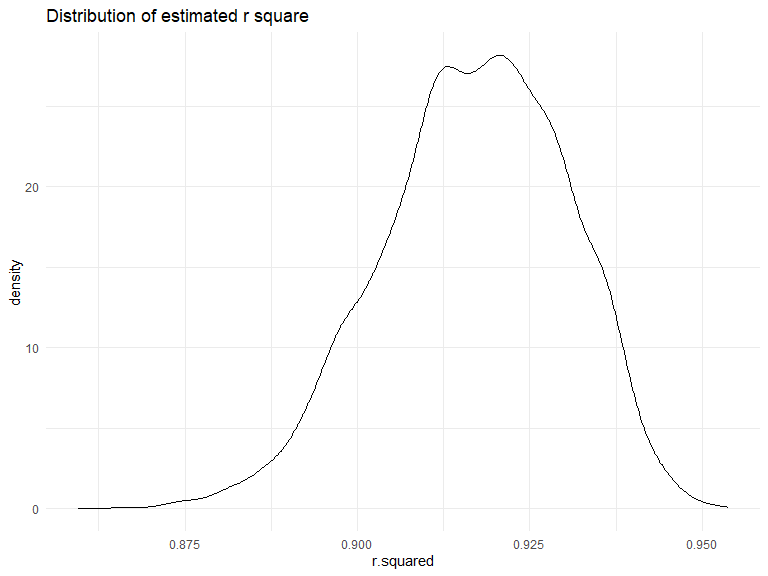
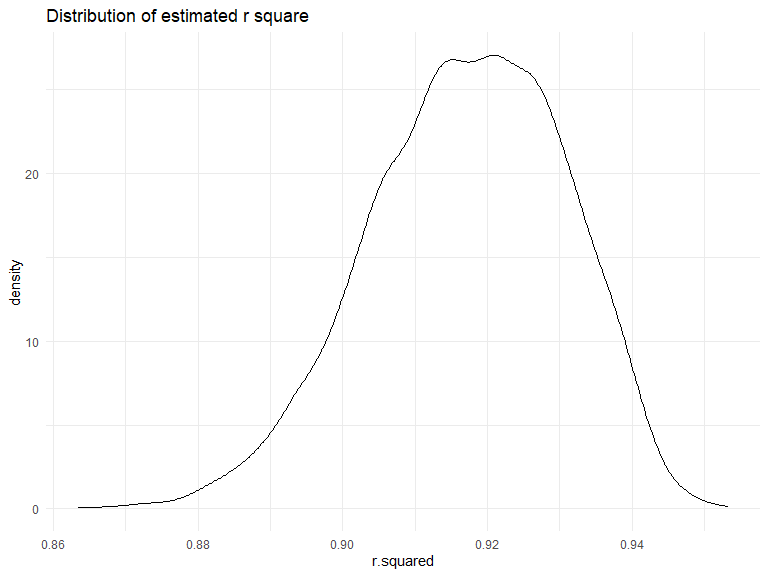
update prob 1

diff --git a/p8105_hw6_sz3213.md b/p8105_hw6_sz3213.md
@@ -79,7 +79,13 @@ results_df |>
   theme(axis.text.x = element_text(angle = 90, hjust = 1))
 ```
 
-![](p8105_hw6_sz3213_files/figure-gfm/unnamed-chunk-5-1.png)<!-- -->
+![](p8105_hw6_sz3213_files/figure-gfm/plot%20for%20OR%20and%20CI%20for%20each%20city-1.png)<!-- -->
+From the plot, most cities have odds ratios that are smaller than 1,
+which suggests that crimes with male victims have smaller odds of
+resolution compared to crimes with female victims after adjusting for
+victim age and race. However, Albuquerque, NM has a much higher OR
+compare to the rest of the cities, which implies that crimes with female
+victims have smaller odds of resolution.
 
 ## Problem 2
 
@@ -133,15 +139,15 @@ c(LB_r, UB_r)|>
   knitr::kable(digits = 3)
 ```
 
-|       |    x |
-|:------|-----:|
-| 2.5%  | 0.89 |
-| 97.5% | 0.94 |
+|       |     x |
+|:------|------:|
+| 2.5%  | 0.889 |
+| 97.5% | 0.940 |
 
 The distribution of $\hat{r^2}$ is slightly left-skewed, with the range
 from 0.86 to 0.96 and the mode around 0.92. The 2.5% and 97.5% quantiles
-of the distribution are 0.89 and 0.94, respectively, and the
-corresponding 95% confidence interval is (0.89, 0.94).
+of the distribution are 0.889 and 0.94, respectively, and the
+corresponding 95% confidence interval is (0.889, 0.94).
 
 ``` r
 bootstrap_results |> 
@@ -162,14 +168,14 @@ c(LB_b, UB_b)|>
 
 |       |      x |
 |:------|-------:|
-| 2.5%  | -8.885 |
-| 97.5% | -4.590 |
+| 2.5%  | -8.978 |
+| 97.5% | -4.540 |
 
 The distribution of $log(\hat{\beta_1} * \hat{\beta_2})$ is heavily
 left-skewed, with the range from -12 to -4 and the mode around -5.5. The
-2.5% and 97.5% quantiles of the distribution are -8.885 and -4.59,
-respectively, and the corresponding 95% confidence interval is (-8.885,
--4.59).
+2.5% and 97.5% quantiles of the distribution are -8.978 and -4.54,
+respectively, and the corresponding 95% confidence interval is (-8.978,
+-4.54).
 
 ## Problem 3
 
